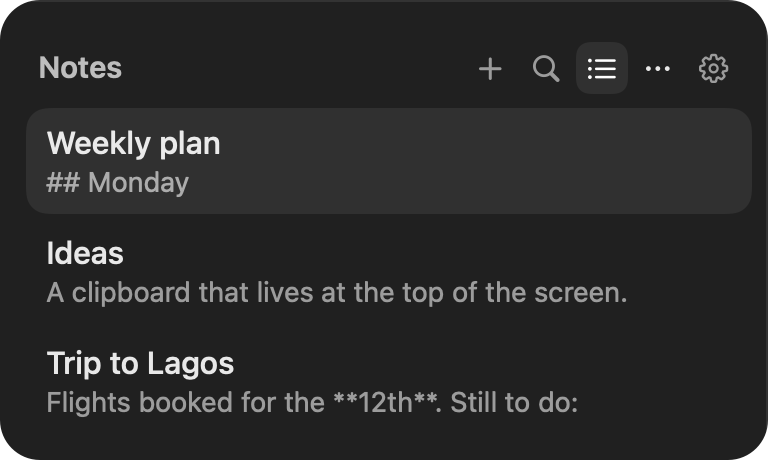
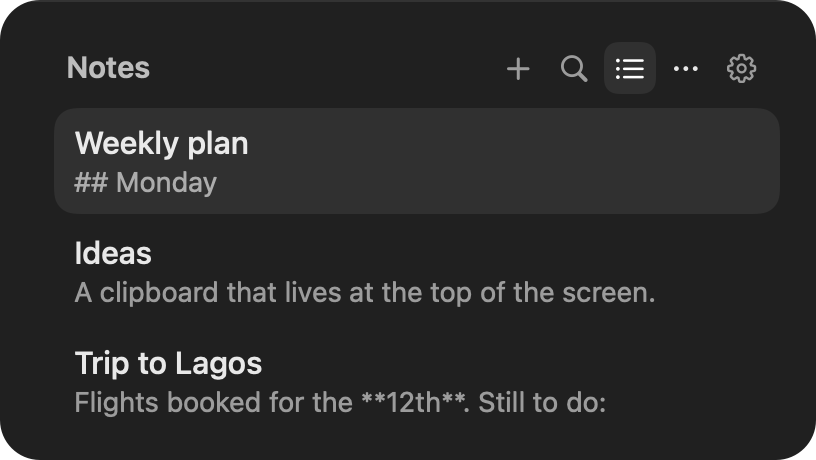
README panel pictures: more space from the left and right edges
The panels are cut with a margin added on both sides, filled from the panel's own colour, and the crop avoids the render's outer border so no stray line shows. Quick Access and Notes stay the same size.

diff --git a/docs/images/make-panels.swift b/docs/images/make-panels.swift
@@ -5,21 +5,34 @@ import AppKit
 let root = URL(fileURLWithPath: CommandLine.arguments[0]).deletingLastPathComponent()
 let source = NSBitmapImageRep(data: try! Data(contentsOf: root.appendingPathComponent("drawer.png")))!
 // Pixel rectangles in the 3840 x 600 render (the drawer is 1920 pt wide at 2x). Quick Access and Notes share one size so they sit evenly side by side in the README table.
-let panels: [(String, CGRect)] = [
-    ("drawer-quick-access.png", CGRect(x: 0, y: 0, width: 768, height: 460)),
-    ("drawer-clipboard.png", CGRect(x: 790, y: 0, width: 1500, height: 600)),
-    ("drawer-notes.png", CGRect(x: 3072, y: 0, width: 768, height: 460)),
+// The last number is extra margin added to the left and right, filled with the panel's own colour, so content never sits
+// close to the picture's edge (the Notes panel runs right up to the edge of the screen in the render).
+let panels: [(String, CGRect, CGFloat)] = [
+    ("drawer-quick-access.png", CGRect(x: 6, y: 0, width: 760, height: 460), 28),
+    ("drawer-clipboard.png", CGRect(x: 790, y: 0, width: 1500, height: 600), 0),
+    ("drawer-notes.png", CGRect(x: 3072, y: 0, width: 760, height: 460), 28),
 ]
-for (name, r) in panels {
-    let w = Int(r.width), h = Int(r.height)
+for (name, r, pad) in panels {
+    let w = Int(r.width + 2 * pad), h = Int(r.height)
     let out = NSBitmapImageRep(bitmapDataPlanes: nil, pixelsWide: w, pixelsHigh: h, bitsPerSample: 8, samplesPerPixel: 4,
                                hasAlpha: true, isPlanar: false, colorSpaceName: .deviceRGB, bytesPerRow: 0, bitsPerPixel: 0)!
     NSGraphicsContext.saveGraphicsState()
     NSGraphicsContext.current = NSGraphicsContext(bitmapImageRep: out)
-    NSBezierPath(roundedRect: NSRect(x: 0, y: 0, width: w, height: h), xRadius: 40, yRadius: 40).addClip()
-    // Draw the whole source offset so the wanted rectangle lands at the origin (AppKit's y runs upward).
     let full = NSImage(size: NSSize(width: source.pixelsWide, height: source.pixelsHigh)); full.addRepresentation(source)
-    full.draw(in: NSRect(x: -r.minX, y: -(CGFloat(source.pixelsHigh) - r.maxY), width: CGFloat(source.pixelsWide), height: CGFloat(source.pixelsHigh)))
+    NSBezierPath(roundedRect: NSRect(x: 0, y: 0, width: w, height: h), xRadius: 40, yRadius: 40).addClip()
+    // The panel's own colour, sampled from an empty spot near the bottom middle of the crop, fills the margin.
+    // Draw the whole source offset so the wanted rectangle lands inside the margin (AppKit's y runs upward).
+    if pad > 0 {
+        // The margins are stretched from an empty patch of the panel itself (low in the crop, in the middle), so the colour matches
+        // the panel exactly.
+        let patch = NSRect(x: r.minX + r.width / 2, y: CGFloat(source.pixelsHigh) - r.maxY + 6, width: 20, height: 10)
+        full.draw(in: NSRect(x: 0, y: 0, width: pad, height: CGFloat(h)), from: patch, operation: .copy, fraction: 1)
+        full.draw(in: NSRect(x: CGFloat(w) - pad, y: 0, width: pad, height: CGFloat(h)), from: patch, operation: .copy, fraction: 1)
+    }
+    NSGraphicsContext.saveGraphicsState()
+    NSBezierPath(rect: NSRect(x: pad, y: 0, width: r.width, height: r.height)).addClip()   // only the panel, not its neighbours
+    full.draw(in: NSRect(x: pad - r.minX, y: -(CGFloat(source.pixelsHigh) - r.maxY), width: CGFloat(source.pixelsWide), height: CGFloat(source.pixelsHigh)))
+    NSGraphicsContext.restoreGraphicsState()
     NSGraphicsContext.restoreGraphicsState()
     try! out.representation(using: .png, properties: [:])!.write(to: root.appendingPathComponent(name))
 }
